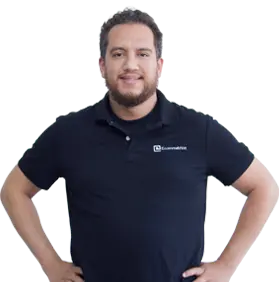
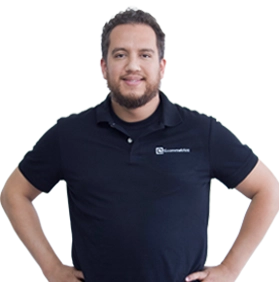
update

diff --git a/src/components/team/TeamMembers.js b/src/components/team/TeamMembers.js
@@ -2,6 +2,7 @@ const teamMembers = [
   {
     id: 1,
     image: "/team1.webp",
+    image2: "/team1-2.webp",
     name: "Kevin",
     fullName: "Kevin Ortega",
     role: "Full-Stack Developer",
@@ -26,14 +27,15 @@ const teamMembers = [
   {
     id: 2,
     image: "/team2.webp",
+    image2: "/team2-2.webp",
     name: "Karen",
     fullName: "Karen Valdez",
     role: "Editor & Copywriter",
     skills: "Editor, Copywriter, Content Creator",
     transition: "imagen2",
-    experience: "5 años de experiencia",  
+    experience: "5 años de experiencia",
     education: "Lic. en Comunicación y Publicidad",
-    contact: "664 642 9633",  
+    contact: "664 642 9633",
     proyecto5: "Websense MX, Copywriter.",
     proyecto4: "Imprex Digital, Asistente general.",
     proyecto3: "Distribuidora Landys, Ventas web.",
@@ -50,27 +52,32 @@ const teamMembers = [
   {
     id: 3,
     image: "/team3.webp",
+    image2: "/team3-2.webp",
     name: "Yaz",
     fullName: "Yazmin Guardado",
     role: "Ux /Ui Designer",
     skills: "Ux / Ui, Branding, Publicidad",
     transition: "imagen3",
-    experience: "14 años de experiencia",  
+    experience: "14 años de experiencia",
     education: "Lic. Diseño Grafico Digital y Marketing",
-    contact: "664 642 9633",  
+    contact: "664 642 9633",
     proyecto: "E-commetrica, Diseñador Ux / Ui y branding.",
     proyecto2: "Academia Lean Sigma, Diseñador senior y community manager.",
     proyecto3: "Alternativa 19 del Sur, Diseñador senior y marketing.",
     proyecto4: "HighBits, Diseñador Jr.",
     edu: "Lic. Diseño Tradicional y Psicología del diseño.",
     edu2: "Lic. Diseño Grafico Digital y Marketing.",
-    testimonio: "Trabajar con Yazmin fue un placer. Tiene una increíble capacidad para entender lo que necesita el usuario y traducirlo en diseños visuales que no solo son atractivos, sino también fáciles de usar. Su trabajo ha hecho que nuestra plataforma sea mucho más intuitiva y agradable para los usuarios.",
-    testimonio2: "Yazmin tiene un don para el diseño. Su atención al detalle y su capacidad para transformar ideas en interfaces limpias y funcionales realmente marcan la diferencia. Siempre tiene en cuenta la experiencia del usuario, lo que hace que el producto final sea impecable.",
-    description: "Yaz es una experta en experiencia de usuario con diseños creativos que logran atraer y cumplir las metas de tu negocio.",
-    },
+    testimonio:
+      "Trabajar con Yazmin fue un placer. Tiene una increíble capacidad para entender lo que necesita el usuario y traducirlo en diseños visuales que no solo son atractivos, sino también fáciles de usar. Su trabajo ha hecho que nuestra plataforma sea mucho más intuitiva y agradable para los usuarios.",
+    testimonio2:
+      "Yazmin tiene un don para el diseño. Su atención al detalle y su capacidad para transformar ideas en interfaces limpias y funcionales realmente marcan la diferencia. Siempre tiene en cuenta la experiencia del usuario, lo que hace que el producto final sea impecable.",
+    description:
+      "Yaz es una experta en experiencia de usuario con diseños creativos que logran atraer y cumplir las metas de tu negocio.",
+  },
   {
     id: 4,
     image: "/team4.webp",
+    image2: "/team4-2.webp",
     name: "Juan",
     fullName: "Juan M. González",
     role: "CEO & Consultor",
@@ -78,45 +85,25 @@ const teamMembers = [
     transition: "imagen4",
     experience: "8 años de experiencia",
     education: "Mtr. Economía Aplicada",
-    contact: "664 642 9633",  
+    contact: "664 642 9633",
     proyecto: "E-commetrica, Consultor de ecommerce y desarrollador web.",
-    proyecto2: "Border Grower, Director de ecommerce y programador en R y Liquid.",
+    proyecto2:
+      "Border Grower, Director de ecommerce y programador en R y Liquid.",
     proyecto3: "Digital Lab Agency, Dearrollador de ecommerce.",
     proyecto4: "Guarantee Solar, Especialista de mercadotecnia digital.",
     edu: "Lic. Negocios Internacionales.",
     edu2: "Mtr. Economía Aplicada.",
-    testimonio: "Juan es un experto en ecommerce y desarrollo web, ha trabajado en proyectos de gran envergadura y ha logrado posicionar marcas en el mercado digital.",
-    testimonio2: "Su experiencia en el desarrollo de ecommerce y su habilidad para posicionar marcas en el mercado digital lo hacen un experto en el área.",
-    contact: "664 642 9633",  
+    testimonio:
+      "Juan es un experto en ecommerce y desarrollo web, ha trabajado en proyectos de gran envergadura y ha logrado posicionar marcas en el mercado digital.",
+    testimonio2:
+      "Su experiencia en el desarrollo de ecommerce y su habilidad para posicionar marcas en el mercado digital lo hacen un experto en el área.",
     description:
       "Juan es experto en SEO, optimiza el posicionamiento y el cosistema digital para que tu negocio crezca.",
   },
   {
     id: 5,
-    image: "/team4.webp",
-    name: "Jesus",
-    fullName: "Juan M. González",
-    role: "CEO & Consultor",
-    skills: "WebMaster, Project Manager, Ecommerce",
-    transition: "imagen4",
-    experience: "8 años de experiencia",
-    education: "Mtr. Economía Aplicada",
-    contact: "664 642 9633",  
-    proyecto: "E-commetrica, Consultor de ecommerce y desarrollador web.",
-    proyecto2: "Border Grower, Director de ecommerce y programador en R y Liquid.",
-    proyecto3: "Digital Lab Agency, Dearrollador de ecommerce.",
-    proyecto4: "Guarantee Solar, Especialista de mercadotecnia digital.",
-    edu: "Lic. Negocios Internacionales.",
-    edu2: "Mtr. Economía Aplicada.",
-    testimonio: "Juan es un experto en ecommerce y desarrollo web, ha trabajado en proyectos de gran envergadura y ha logrado posicionar marcas en el mercado digital.",
-    testimonio2: "Su experiencia en el desarrollo de ecommerce y su habilidad para posicionar marcas en el mercado digital lo hacen un experto en el área.",
-    contact: "664 642 9633",  
-    description:
-      "Juan es experto en SEO, optimiza el posicionamiento y el cosistema digital para que tu negocio crezca.",
-  },
-  {
-    id: 6,
-    image: "/team4.webp",
+    image: "/team5.webp",
+    image2: "/team5-2.webp",
     name: "Carlos",
     fullName: "Juan Carlos",
     role: "CEO & Consultor",
@@ -124,16 +111,44 @@ const teamMembers = [
     transition: "imagen4",
     experience: "8 años de experiencia",
     education: "Mtr. Economía Aplicada",
-    contact: "664 642 9633",  
+    contact: "664 642 9633",
     proyecto: "E-commetrica, Consultor de ecommerce y desarrollador web.",
-    proyecto2: "Border Grower, Director de ecommerce y programador en R y Liquid.",
+    proyecto2:
+      "Border Grower, Director de ecommerce y programador en R y Liquid.",
     proyecto3: "Digital Lab Agency, Dearrollador de ecommerce.",
     proyecto4: "Guarantee Solar, Especialista de mercadotecnia digital.",
     edu: "Lic. Negocios Internacionales.",
     edu2: "Mtr. Economía Aplicada.",
-    testimonio: "Juan es un experto en ecommerce y desarrollo web, ha trabajado en proyectos de gran envergadura y ha logrado posicionar marcas en el mercado digital.",
-    testimonio2: "Su experiencia en el desarrollo de ecommerce y su habilidad para posicionar marcas en el mercado digital lo hacen un experto en el área.",
-    contact: "664 642 9633",  
+    testimonio:
+      "Juan es un experto en ecommerce y desarrollo web, ha trabajado en proyectos de gran envergadura y ha logrado posicionar marcas en el mercado digital.",
+    testimonio2:
+      "Su experiencia en el desarrollo de ecommerce y su habilidad para posicionar marcas en el mercado digital lo hacen un experto en el área.",
+    description:
+      "Juan es experto en SEO, optimiza el posicionamiento y el cosistema digital para que tu negocio crezca.",
+  },
+  {
+    id: 6,
+    image: "/team6.webp",
+    image2: "/team6-2.webp",
+    name: "Jesus",
+    fullName: "Jesus",
+    role: "CEO & Consultor",
+    skills: "WebMaster, Project Manager, Ecommerce",
+    transition: "imagen4",
+    experience: "8 años de experiencia",
+    education: "Mtr. Economía Aplicada",
+    contact: "664 642 9633",
+    proyecto: "E-commetrica, Consultor de ecommerce y desarrollador web.",
+    proyecto2:
+      "Border Grower, Director de ecommerce y programador en R y Liquid.",
+    proyecto3: "Digital Lab Agency, Dearrollador de ecommerce.",
+    proyecto4: "Guarantee Solar, Especialista de mercadotecnia digital.",
+    edu: "Lic. Negocios Internacionales.",
+    edu2: "Mtr. Economía Aplicada.",
+    testimonio:
+      "Juan es un experto en ecommerce y desarrollo web, ha trabajado en proyectos de gran envergadura y ha logrado posicionar marcas en el mercado digital.",
+    testimonio2:
+      "Su experiencia en el desarrollo de ecommerce y su habilidad para posicionar marcas en el mercado digital lo hacen un experto en el área.",
     description:
       "Juan es experto en SEO, optimiza el posicionamiento y el cosistema digital para que tu negocio crezca.",
   },

diff --git a/src/components/team/Carrousel.jsx b/src/components/team/Carrousel.jsx
@@ -4,6 +4,7 @@ import { getLangFromUrl, useTranslations } from "src/i18n/utils";
 
 // Carrusel para escritorio
 export function DesktopCarousel({ team, URL }) {
+  const [hovered, setHovered] = useState(false);
   const lang = getLangFromUrl(URL);
   const t = useTranslations(lang);
   const teamMember = t("team");
@@ -12,12 +13,12 @@ export function DesktopCarousel({ team, URL }) {
 
   const nextSlide = () => {
     setDirection("right");
-    setCurrentIndex((prev) => (prev + 3 >= team.length ? 0 : prev + 1));
+    setCurrentIndex((prev) => (prev + 3 >= team.length ? 0 : prev + 3));
   };
 
   const prevSlide = () => {
     setDirection("left");
-    setCurrentIndex((prev) => (prev === 0 ? team.length - 3 : prev - 1));
+    setCurrentIndex((prev) => (prev === 0 ? team.length - 3 : prev - 3));
   };
 
   const visibleTeam = team.slice(currentIndex, currentIndex + 3);
@@ -107,15 +108,16 @@ export function DesktopCarousel({ team, URL }) {
                   <motion.div
                     className="px-4 relative h-48 transform transition-all duration-500 hover:h-64 rounded-3xl bg-[#861453] w-64"
                     whileHover={{ scale: 1.05 }}
+                    onMouseEnter={() => setHovered(index)}
+                    onMouseLeave={() => setHovered(null)}
                   >
-                    <a href={`${teamMember}${member.name}`}>
-                      {" "}
-                      <img
-                        src={member.image}
-                        alt={member.name}
-                        className="absolute bottom-0 left-0 right-0 w-full rounded-3xl"
-                      />
-                    </a>
+                    {/* <a href={`${teamMember}${member.name}`}> */}{" "}
+                    <img
+                      src={hovered === index ? member.image2 : member.image}
+                      alt={member.name}
+                      className="absolute bottom-0 left-0 right-0 w-full rounded-3xl"
+                    />
+                    {/* </a> */}
                   </motion.div>
 
                   <div className="py-4 text-center">
